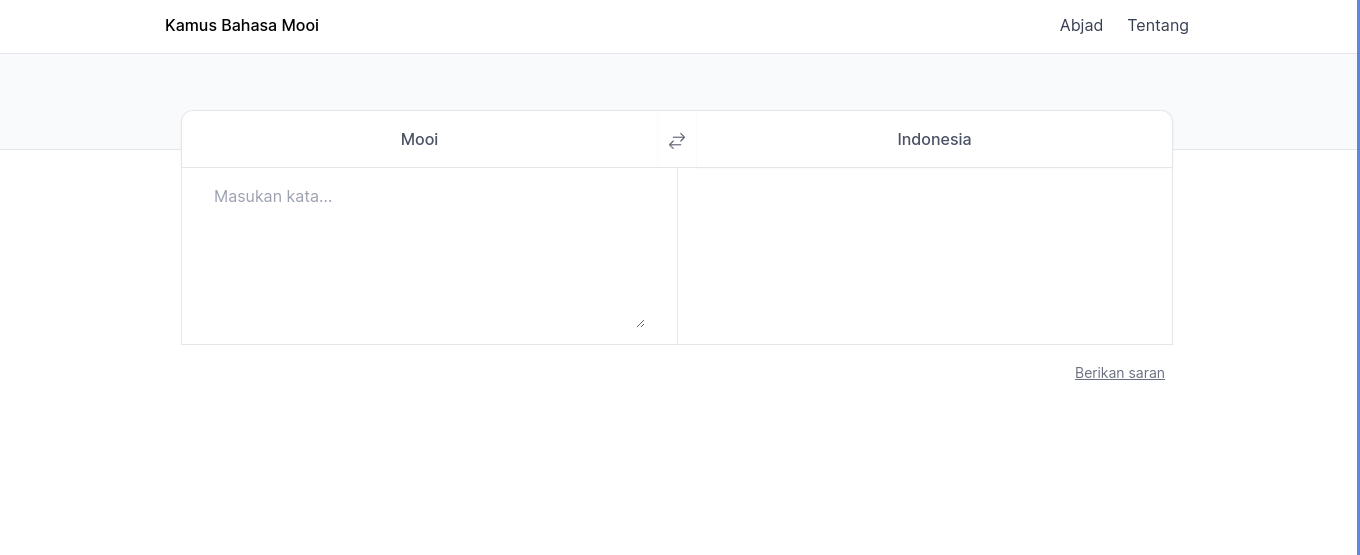
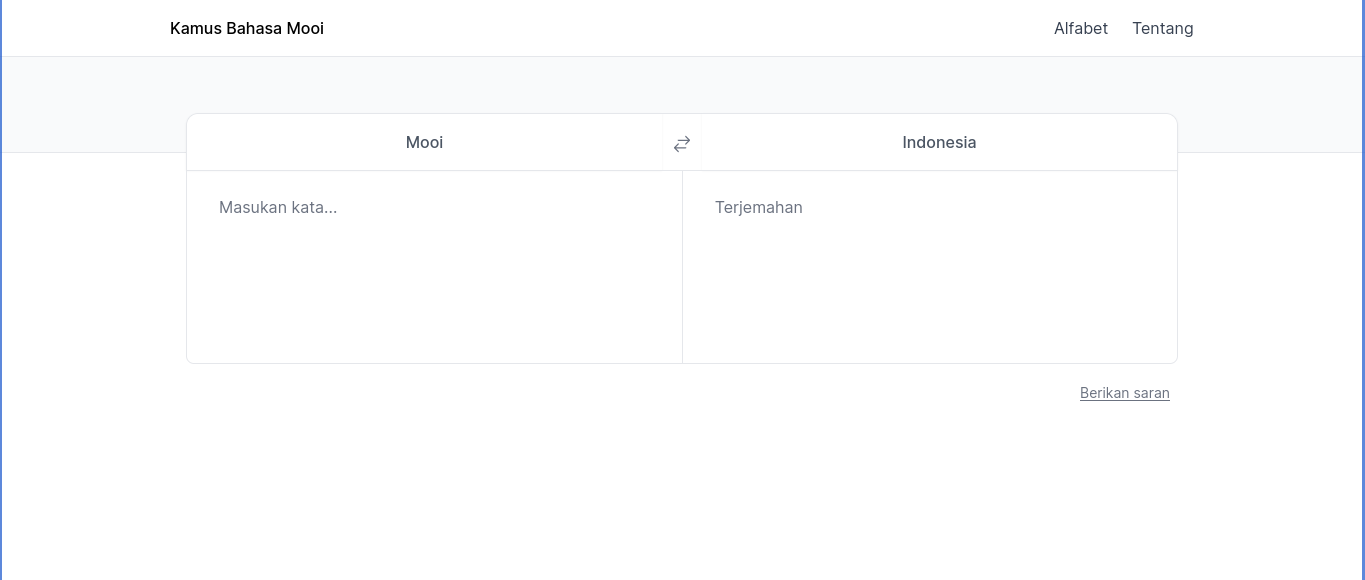
feat: add new feature for alphabet pages, make user filter any abjad simplify

diff --git a/src/lib/translator.ts b/src/lib/translator.ts
@@ -1,32 +1,19 @@
 import { fetchData, ResultItem } from "./words";
 
-// Get references to the HTML elements we are working with
+// Mendapatkan referensi elemen-elemen HTML yang akan digunakan
 const sourceLangElement = document.querySelector("#source") as HTMLInputElement;
 const targetLangElement = document.querySelector("#target") as HTMLInputElement;
-const sourceTextArea = document.querySelector(
-  "#source-text"
-) as HTMLTextAreaElement;
-const targetTextArea = document.querySelector(
-  "#target-text"
-) as HTMLTextAreaElement;
-const switchButton = document.querySelector(
-  "#switch-button"
-) as HTMLButtonElement;
+const sourceTextArea = document.querySelector("#source-text") as HTMLTextAreaElement;
+const targetTextArea = document.querySelector("#target-text") as HTMLTextAreaElement;
+const switchButton = document.querySelector("#switch-button") as HTMLButtonElement;
 const resultsContainer = document.getElementById("results") as HTMLUListElement;
-const examplesContainer = document.getElementById(
-  "examples"
-) as HTMLUListElement;
-const relatedWordsTitle = document.getElementById(
-  "related-words-title"
-) as HTMLInputElement;
-const exampleUsageTitle = document.getElementById(
-  "example-usage-title"
-) as HTMLInputElement;
-const targetCardArea = document.getElementById(
-  "translations"
-) as HTMLInputElement;
+const examplesContainer = document.getElementById("examples") as HTMLUListElement;
+const relatedWordsTitle = document.getElementById("related-words-title") as HTMLInputElement;
+const exampleUsageTitle = document.getElementById("example-usage-title") as HTMLInputElement;
 
-// Function to switch the source and target languages
+/**
+ * Fungsi untuk menukar bahasa sumber dan bahasa tujuan.
+ */
 function switchLanguages(): void {
   [sourceLangElement.textContent, targetLangElement.textContent] = [
     targetLangElement.textContent,
@@ -43,19 +30,21 @@ function switchLanguages(): void {
   translate();
 }
 
+/**
+ * Fungsi untuk menerjemahkan teks berdasarkan bahasa sumber dan tujuan.
+ */
 async function translate(): Promise<void> {
   const sourceLang = sourceLangElement.textContent?.trim().toLowerCase();
   const targetLang = targetLangElement.textContent?.trim().toLowerCase();
   const query = sourceTextArea.value.toLowerCase();
 
-  // If the query is empty, clear the target text area and results container
+  // Jika query kosong, bersihkan area teks tujuan dan kontainer hasil
   if (query.trim() === "") {
     targetTextArea.value = "";
     resultsContainer.innerHTML = "";
     examplesContainer.innerHTML = "";
     relatedWordsTitle.classList.add("hidden");
     exampleUsageTitle.classList.add("hidden");
-    targetCardArea.classList.add("hidden");
     return;
   }
 
@@ -65,6 +54,7 @@ async function translate(): Promise<void> {
     if (!data) {
       throw new Error("Failed to fetch data from fetchData");
     }
+
     const results = data.filter(
       (item: ResultItem) =>
         (sourceLang === "mooi" &&
@@ -75,24 +65,23 @@ async function translate(): Promise<void> {
           item.mooi_arti.toLowerCase().startsWith(query))
     );
 
-    // If there are no results, display a message and clear the results container
+    // Jika tidak ada hasil, tampilkan pesan dan bersihkan kontainer hasil
     if (results.length === 0) {
       targetTextArea.value = "Hasil tidak ditemukan.";
       resultsContainer.innerHTML = "";
       examplesContainer.innerHTML = "";
       relatedWordsTitle.classList.add("hidden");
       exampleUsageTitle.classList.add("hidden");
-      targetCardArea.classList.remove("hidden");
       return;
     }
 
-    // Display the first result in the target text area
+    // Tampilkan hasil pertama di area teks tujuan
     targetTextArea.value =
       sourceLang === "mooi"
         ? `${results[0].mooi_arti}`
         : `${results[0].mooi_kata}`;
 
-    // Display all results in the results container
+    // Tampilkan semua hasil di kontainer hasil
     displayResults(results, sourceLang!);
   } catch (error) {
     console.error("Failed to fetch dictionary:", error);
@@ -102,16 +91,23 @@ async function translate(): Promise<void> {
   }
 }
 
+/**
+ * Fungsi untuk menampilkan daftar hasil di elemen yang diberikan.
+ * @param {HTMLElement} element - Elemen tempat menampilkan hasil.
+ * @param {any[]} data - Data untuk ditampilkan.
+ * @param {string} sourceLang - Bahasa sumber.
+ * @param {string} contentType - Tipe konten yang akan ditampilkan ("Kata-kata terkait" atau "Contoh penggunaan").
+ */
 function displayList(
   element: HTMLElement,
   data: any[],
   sourceLang: string,
   contentType: "Kata-kata terkait" | "Contoh penggunaan"
 ) {
-  // Clear the existing list items
+  // Bersihkan item daftar yang ada
   element.innerHTML = "";
 
-  // Create and append new list items for each result
+  // Buat dan tambahkan item daftar baru untuk setiap hasil
   data.forEach((item) => {
     const listItem = document.createElement("li");
     listItem.className =
@@ -134,8 +130,13 @@ function displayList(
   });
 }
 
+/**
+ * Fungsi untuk menampilkan hasil di elemen yang sesuai.
+ * @param {ResultItem[]} results - Hasil untuk ditampilkan.
+ * @param {string} sourceLang - Bahasa sumber.
+ */
 function displayResults(results: ResultItem[], sourceLang: string): void {
-  // If there are no results, hide the containers
+  // Jika tidak ada hasil, sembunyikan kontainer
   if (results.length === 0) {
     resultsContainer.parentElement?.parentElement?.classList.add("hidden");
     examplesContainer.parentElement?.parentElement?.classList.add("hidden");
@@ -144,18 +145,17 @@ function displayResults(results: ResultItem[], sourceLang: string): void {
     return;
   }
 
-  // Show the containers if there are results
+  // Tampilkan kontainer jika ada hasil
   resultsContainer.parentElement?.parentElement?.classList.remove("hidden");
   examplesContainer.parentElement?.parentElement?.classList.remove("hidden");
-  relatedWordsTitle.classList.remove("hidden"); // Show the title
+  relatedWordsTitle.classList.remove("hidden"); // Tampilkan judul
   exampleUsageTitle.classList.remove("hidden");
-  targetCardArea.classList.remove("hidden");
 
-  // Display the data in the respective elements
+  // Tampilkan data di elemen yang sesuai
   displayList(resultsContainer, results, sourceLang, "Kata-kata terkait");
   displayList(examplesContainer, results, sourceLang, "Contoh penggunaan");
 }
 
-// Add event listeners for the text area input and switch button click events
+// Tambahkan event listener untuk input area teks dan klik tombol switch
 sourceTextArea.addEventListener("input", translate);
 switchButton.addEventListener("click", switchLanguages);

diff --git a/src/lib/alphabet.ts b/src/lib/alphabet.ts
@@ -1,0 +1,87 @@
+import { fetchFilteredData } from "./words";
+
+// Mendapatkan referensi elemen-elemen utama
+const wordContainer = document.getElementById("word-results") as HTMLElement;
+const exampleUsageContainer = document.getElementById("example-usage-results") as HTMLElement;
+const alphabetList = document.getElementById("alphabetList") as HTMLElement;
+const titleAlphabet = document.getElementById("titleAlphabet") as HTMLElement;
+
+// Fungsi untuk menampilkan data berdasarkan huruf yang dipilih
+async function displayDataForLetter(letter: string) {
+    // Menghapus konten yang ada
+    wordContainer.innerHTML = '';
+    exampleUsageContainer.innerHTML = '';
+
+    // Menambahkan header ke setiap kontainer
+    wordContainer.innerHTML = '<h2 class="font-sofia text-xl text-gray-900">Kata</h2>';
+    exampleUsageContainer.innerHTML = '<h2 class="font-sofia text-xl text-gray-900">Contoh penggunaan</h2>';
+
+    // Mengambil data berdasarkan huruf yang diberikan
+    const data = await fetchFilteredData(letter);
+    if (data && data.length > 0) {
+        data.forEach((item, index) => {
+            // Membuat card untuk kata
+            const wordCard = document.createElement("div");
+            wordCard.className = "relative my-2 flex h-16 items-center bg-gray-100";
+            wordCard.innerHTML = `
+                <p class="font-inter px-4">
+                    <u>${item.mooi_kata}</u> [${item.mooi_lafal}] n: <em>${item.mooi_arti}</em>
+                </p>
+                <div class="font-sofia absolute -right-2 -top-2 inline-flex h-6 w-6 items-center justify-center rounded-full border-2 border-white bg-gray-100 text-xs text-gray-600 dark:border-gray-900 lg:hidden">${index + 1}</div>
+            `;
+            wordContainer.appendChild(wordCard);
+
+            // Membuat card untuk contoh penggunaan
+            const exampleCard = document.createElement("div");
+            exampleCard.className = "relative my-2 flex h-16 items-center bg-gray-100";
+            exampleCard.innerHTML = `
+                <p class="font-inter px-4 py-2">
+                    ${item.mooi_contoh} → ${item.indo_contoh} 
+                </p>
+                <div class="font-sofia absolute -right-2 -top-2 inline-flex h-6 w-6 items-center justify-center rounded-full border-2 border-white bg-gray-100 text-xs text-gray-600 dark:border-gray-900 lg:hidden">${index + 1}</div>
+            `;
+            exampleUsageContainer.appendChild(exampleCard);
+        });
+    } else {
+        // Menampilkan pesan ketika data kosong atau null
+        const noDataDiv = document.createElement("div");
+        noDataDiv.innerHTML = `
+                <p class="font-inter py-4 text-gray-500">
+                    Tidak ada data yang tersedia.
+                </p>                
+            `;
+        wordContainer.appendChild(noDataDiv);
+    }
+}
+
+// Menampilkan data untuk huruf "A" secara default saat halaman dimuat
+displayDataForLetter('A');
+
+// Melakukan iterasi melalui nilai ASCII untuk huruf A-Z
+for (let i = 65; i <= 90; i++) {
+    const letter = String.fromCharCode(i);
+    const li = document.createElement("li");
+    li.className =
+        "text-center cursor-pointer font-sofia px-3 py-2 text-xl text-gray-500 hover:text-gray-700 hover:bg-gray-100 hover:rounded";
+    li.textContent = letter;
+
+    // Menambahkan event listener ke elemen li
+    li.addEventListener("click", () => {
+        // Menghapus kelas yang dipilih dari semua elemen li
+        const allLiElements = alphabetList?.querySelectorAll("li");
+        allLiElements?.forEach(el => el.classList.remove("bg-gray-100"));
+
+        // Menambahkan kelas yang dipilih ke elemen li yang diklik
+        li.classList.add("bg-gray-100");
+        
+        // Memperbarui konten titleAlphabet
+        titleAlphabet.textContent = letter;
+
+        // Mengambil dan menampilkan data untuk huruf yang diklik
+        displayDataForLetter(letter);
+    });
+
+    alphabetList?.appendChild(li);
+    // Menyorot elemen li pertama (huruf "A") secara default
+    alphabetList?.firstElementChild?.classList.add("bg-gray-100");
+}

diff --git a/src/lib/words.ts b/src/lib/words.ts
@@ -1,5 +1,6 @@
 import { supabase } from "./supabase";
 
+// Interface untuk mendefinisikan struktur item hasil.
 export interface ResultItem {
   mooi_kata: string;
   mooi_lafal: string;
@@ -10,17 +11,23 @@ export interface ResultItem {
   indo_contoh: string;
 }
 
+/**
+ * Mengambil data dari tabel kata_mooi dan kata_indonesia, kemudian menggabungkannya.
+ * @returns {Promise<ResultItem[] | null>} Array dari objek ResultItem atau null jika terjadi kesalahan.
+ */
 export async function fetchData(): Promise<ResultItem[] | null> {
+  // Mengambil data dari tabel kata_mooi.
   const { data: mooiData, error: mooiError } = await supabase
     .from("kata_mooi")
     .select("kata, lafal, arti, contoh, kelas_kata_id (id)");
 
+  // Mengambil data dari tabel kata_indonesia.
   const { data: indoData, error: indoError } = await supabase
     .from("kata_indonesia")
     .select("kata, contoh, kata_mooi_id (kata, lafal, arti, contoh, kelas_kata_id (singkatan))");
 
   if (mooiData && indoData) {
-    // Menggabungkan data dari kata_mooi dan kata_indonesia
+    // Menggabungkan data dari kata_mooi dan kata_indonesia.
     const result: ResultItem[] = indoData.map(
       (indoItem: any, index: number) => {
         return {
@@ -36,6 +43,49 @@ export async function fetchData(): Promise<ResultItem[] | null> {
     );
 
     return result;
+  } else {
+    console.error("Data is null");
+    return null;
+  }
+}
+
+/**
+ * Mengambil data dari tabel kata_mooi berdasarkan filter, kemudian menggabungkannya dengan data dari tabel kata_indonesia.
+ * @param {string} filter - String untuk memfilter kata dalam tabel kata_mooi.
+ * @returns {Promise<ResultItem[] | null>} Array dari objek ResultItem atau null jika terjadi kesalahan.
+ */
+export async function fetchFilteredData(filter: string): Promise<ResultItem[] | null> {
+  // Mengambil data dari tabel kata_indonesia.
+  const { data: indoData, error: indoError } = await supabase
+    .from("kata_indonesia")
+    .select("kata, contoh, kata_mooi_id (kata, lafal, arti, contoh, kelas_kata_id (singkatan))");
+
+  // Mengambil data dari tabel kata_mooi berdasarkan filter.
+  const { data: filterMooiData, error: filterMooiError } = await supabase
+    .from("kata_mooi")
+    .select("kata, lafal, arti, contoh, kelas_kata_id (id)")
+    .ilike("kata", `${filter}%`);
+
+  if (filterMooiData && indoData) {
+    // Menggabungkan data dari kata_mooi yang telah difilter dengan data dari kata_indonesia.
+    const filteredResult: ResultItem[] = filterMooiData.flatMap((mooiItem: any) => {
+      const relatedIndoItems = indoData.filter((indoItem: any) =>
+        indoItem.kata_mooi_id && indoItem.kata_mooi_id.kata === mooiItem.kata
+      );
+
+      return relatedIndoItems.map((indoItem: any) => {
+        return {
+          mooi_kata: mooiItem.kata,
+          mooi_lafal: mooiItem.lafal,
+          mooi_arti: mooiItem.arti,
+          mooi_contoh: mooiItem.contoh,
+          kelas_kata: indoItem.kata_mooi_id.kelas_kata_id.singkatan,
+          indo_kata: indoItem.kata,
+          indo_contoh: indoItem.contoh,
+        };
+      });
+    });
+    return filteredResult;
   } else {
     console.error("Data is null");
     return null;

diff --git a/src/lib/feedback.ts b/src/lib/feedback.ts
@@ -1,6 +1,10 @@
 import { supabase } from "./supabase";
 import Swal from "sweetalert2";
 
+/**
+ * Fungsi untuk menangani pengiriman form feedback.
+ * @param {Event} event - Event yang terjadi saat form dikirim.
+ */
 export async function handleSubmit(event: Event) {
   event.preventDefault();
 
@@ -10,10 +14,12 @@ export async function handleSubmit(event: Event) {
   ) as HTMLTextAreaElement;
   const message = messageElement.value;
 
+  // Memasukkan feedback ke dalam database
   const { data, error } = await supabase
     .from("feedback")
     .insert([{ message: message, created_at: new Date().toISOString() }]);
 
+  // Menangani respons dari database
   if (error) {
     console.error("Error inserting data: ", error);
     Swal.fire({
@@ -24,6 +30,7 @@ export async function handleSubmit(event: Event) {
   } else {
     Swal.fire("Terima kasih!", "Feedback berhasil dikirim", "success").then(
       () => {
+        // Menutup modal setelah feedback berhasil dikirim
         const closeModalButton = document.querySelector(
           '[data-modal-hide="feedback-modal"]'
         );
@@ -32,14 +39,15 @@ export async function handleSubmit(event: Event) {
         }
       }
     );
-    form.reset()
+    form.reset(); // Mengatur ulang form setelah feedback berhasil dikirim
   }
 }
 
+// Menambahkan event listener saat konten DOM telah dimuat
 document.addEventListener("DOMContentLoaded", function (event) {
   const form = document.getElementById("feedback-form");
   if (form) {
-    form.addEventListener("submit", handleSubmit);
+    form.addEventListener("submit", handleSubmit); // Menambahkan event listener untuk form feedback
   } else {
     console.error("Form not found");
   }
